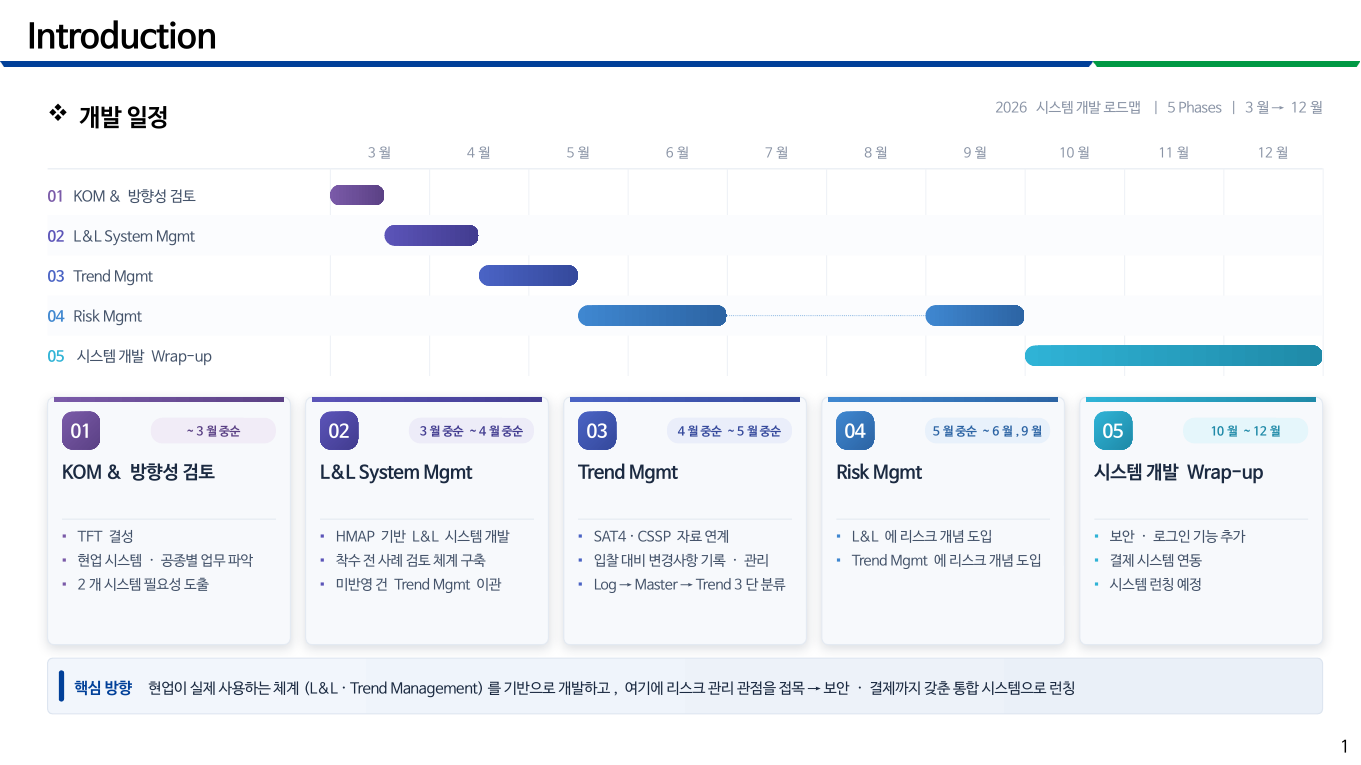
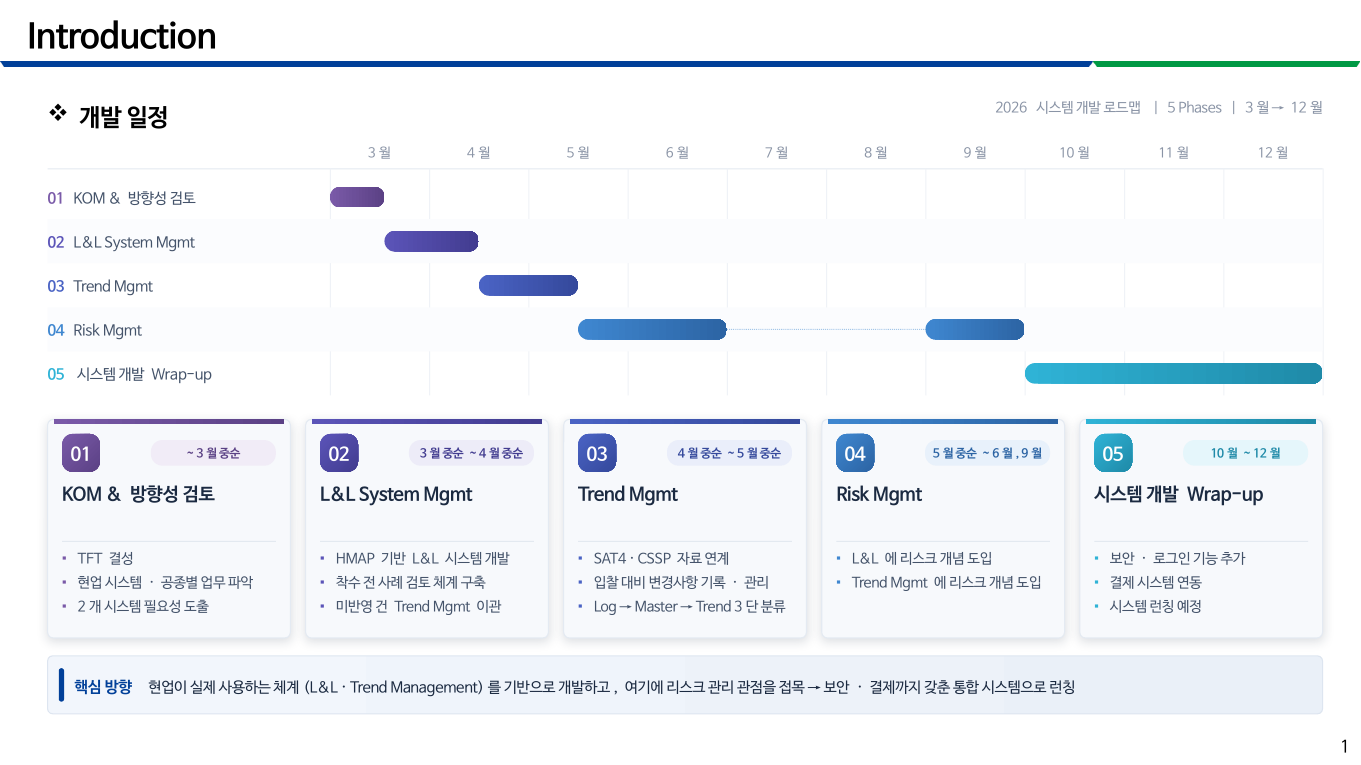
카드 하단 여백 편차를 세로 중앙정렬 대신 카드 높이 조정으로 해결
4단계는 원문 근거상 항목이 2개뿐이라 다른 카드(3개)보다 하단이 비어 보였다.
텍스트박스를 세로 중앙정렬하면 여백은 고르게 나뉘지만 카드 5장의 첫 불릿
줄이 서로 어긋난다. 카드 그리드는 가로로 한 행처럼 읽히므로 첫 줄 정렬이
하단 여백보다 중요하다.

상단 정렬을 유지하고 카드 높이를 항목 3개 분량(1,960,000 EMU)에 맞춰
줄였다. 4단계에 남는 여백은 한 줄 분량이라 눈에 띄지 않는다.
줄어든 세로 여유는 간트 행 간격(360,000 → 395,000)에 돌려 도해가 덜 빽빽하다.

검증 29/29 PASS.

Claude-Session: https://claude.ai/code/session_01SrGqFv6EQPJmfEFFcer6Nf

diff --git a/tools/build_slide.py b/tools/build_slide.py
@@ -53,18 +53,18 @@ BAND_Y = 1240000            # 간트 시작
 AXIS_LABEL_H = 250000
 BAND_RULE_Y = 1510000
 ROW_Y0 = 1570000
-ROW_PITCH = 360000
+ROW_PITCH = 395000
 BAR_H = 185000
 LABEL_COL_W = 2350000
 AXIS_GAP = 180000
 ROW_BAND = "FBFCFE"   # 간트 짝수행 배경
 
-CARD_Y = 3560000
-CARD_H = 2220000
+CARD_Y = 3760000
+CARD_H = 1960000
 CARD_GAP = 137160
 
-KEY_Y = 5900000
-KEY_H = 500000
+KEY_Y = 5880000
+KEY_H = 520000
 
 PAD = 130000
 
@@ -171,7 +171,8 @@ def build_roadmap(slide, c):
         # 구분선
         add(S.rule(name=f"카드선 {ph['no']}", x=cx0 + PAD, y=CARD_Y + 1090000,
                    cx=card_w - PAD * 2, color=HAIRLINE))
-        # 세부 항목
+        # 세부 항목. 상단 정렬을 유지해 카드 5장의 첫 줄이 가로로 맞게 한다
+        # (하단 여백 편차는 카드 높이를 항목 3개에 맞춰 줄이는 쪽으로 해결)
         add(S.textbox(
             name=f"카드본문 {ph['no']}", x=cx0 + PAD, y=CARD_Y + 1160000,
             cx=card_w - PAD * 2, cy=CARD_H - 1160000 - 120000,
